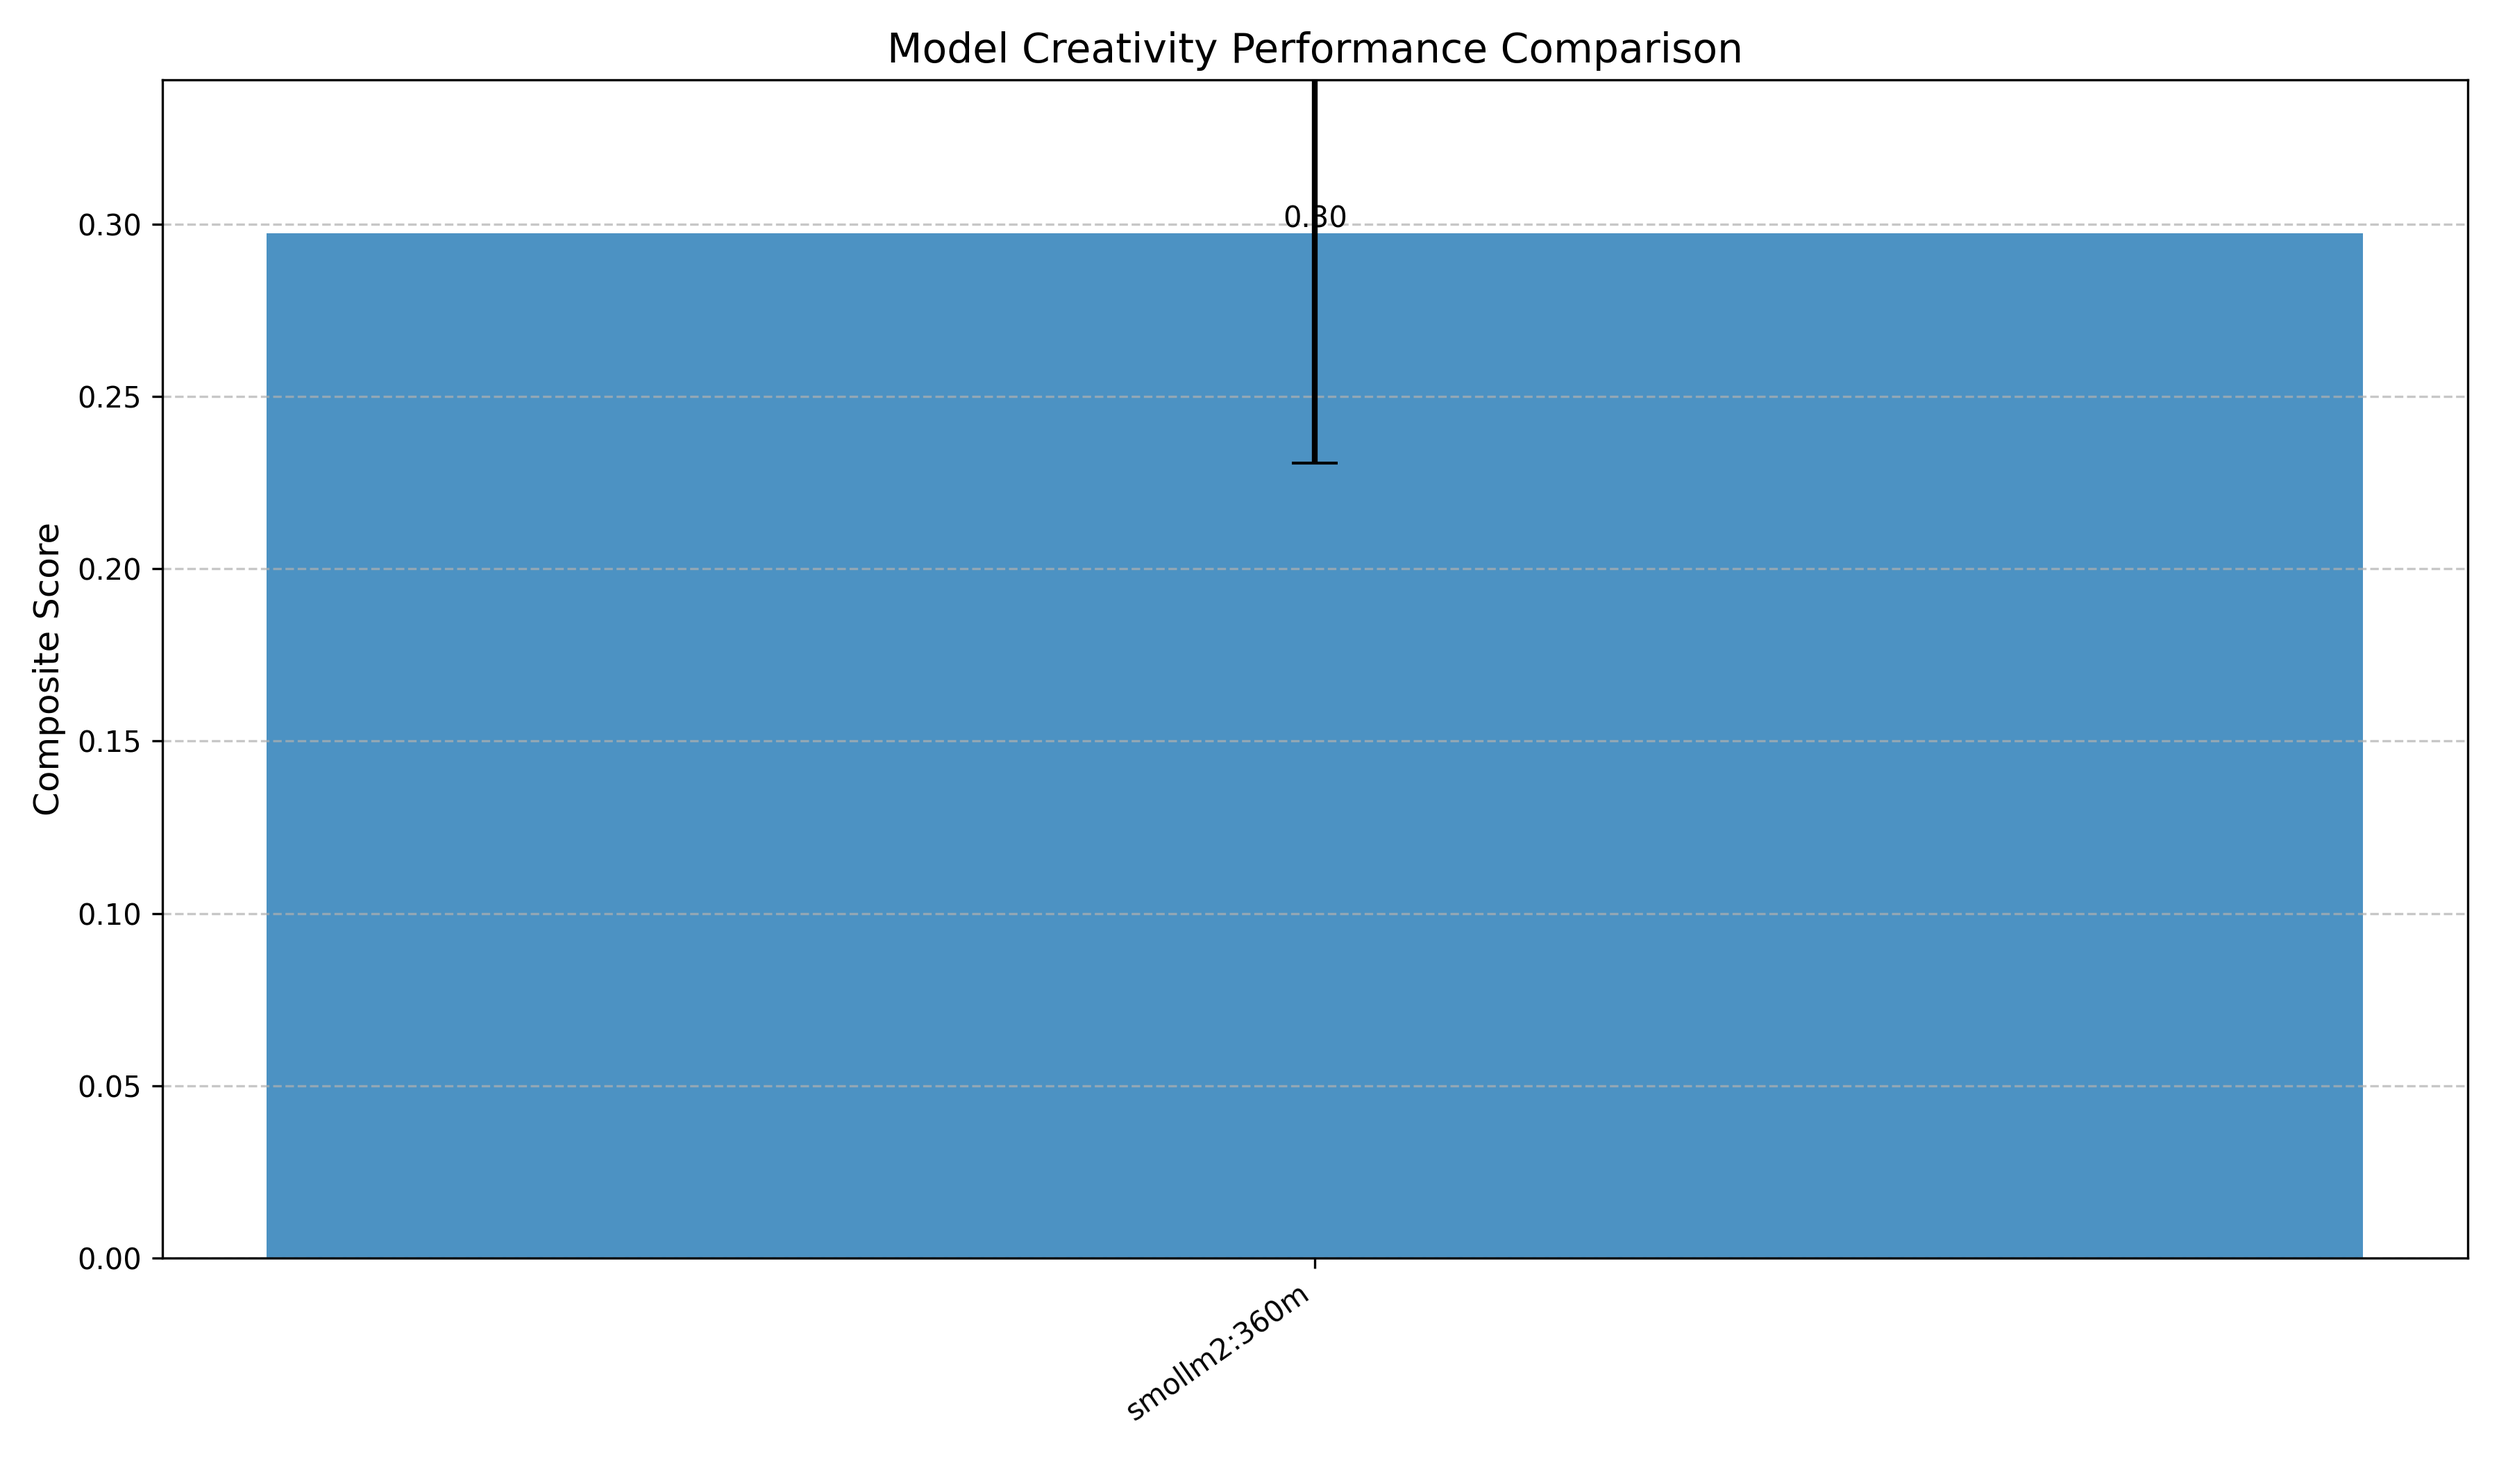
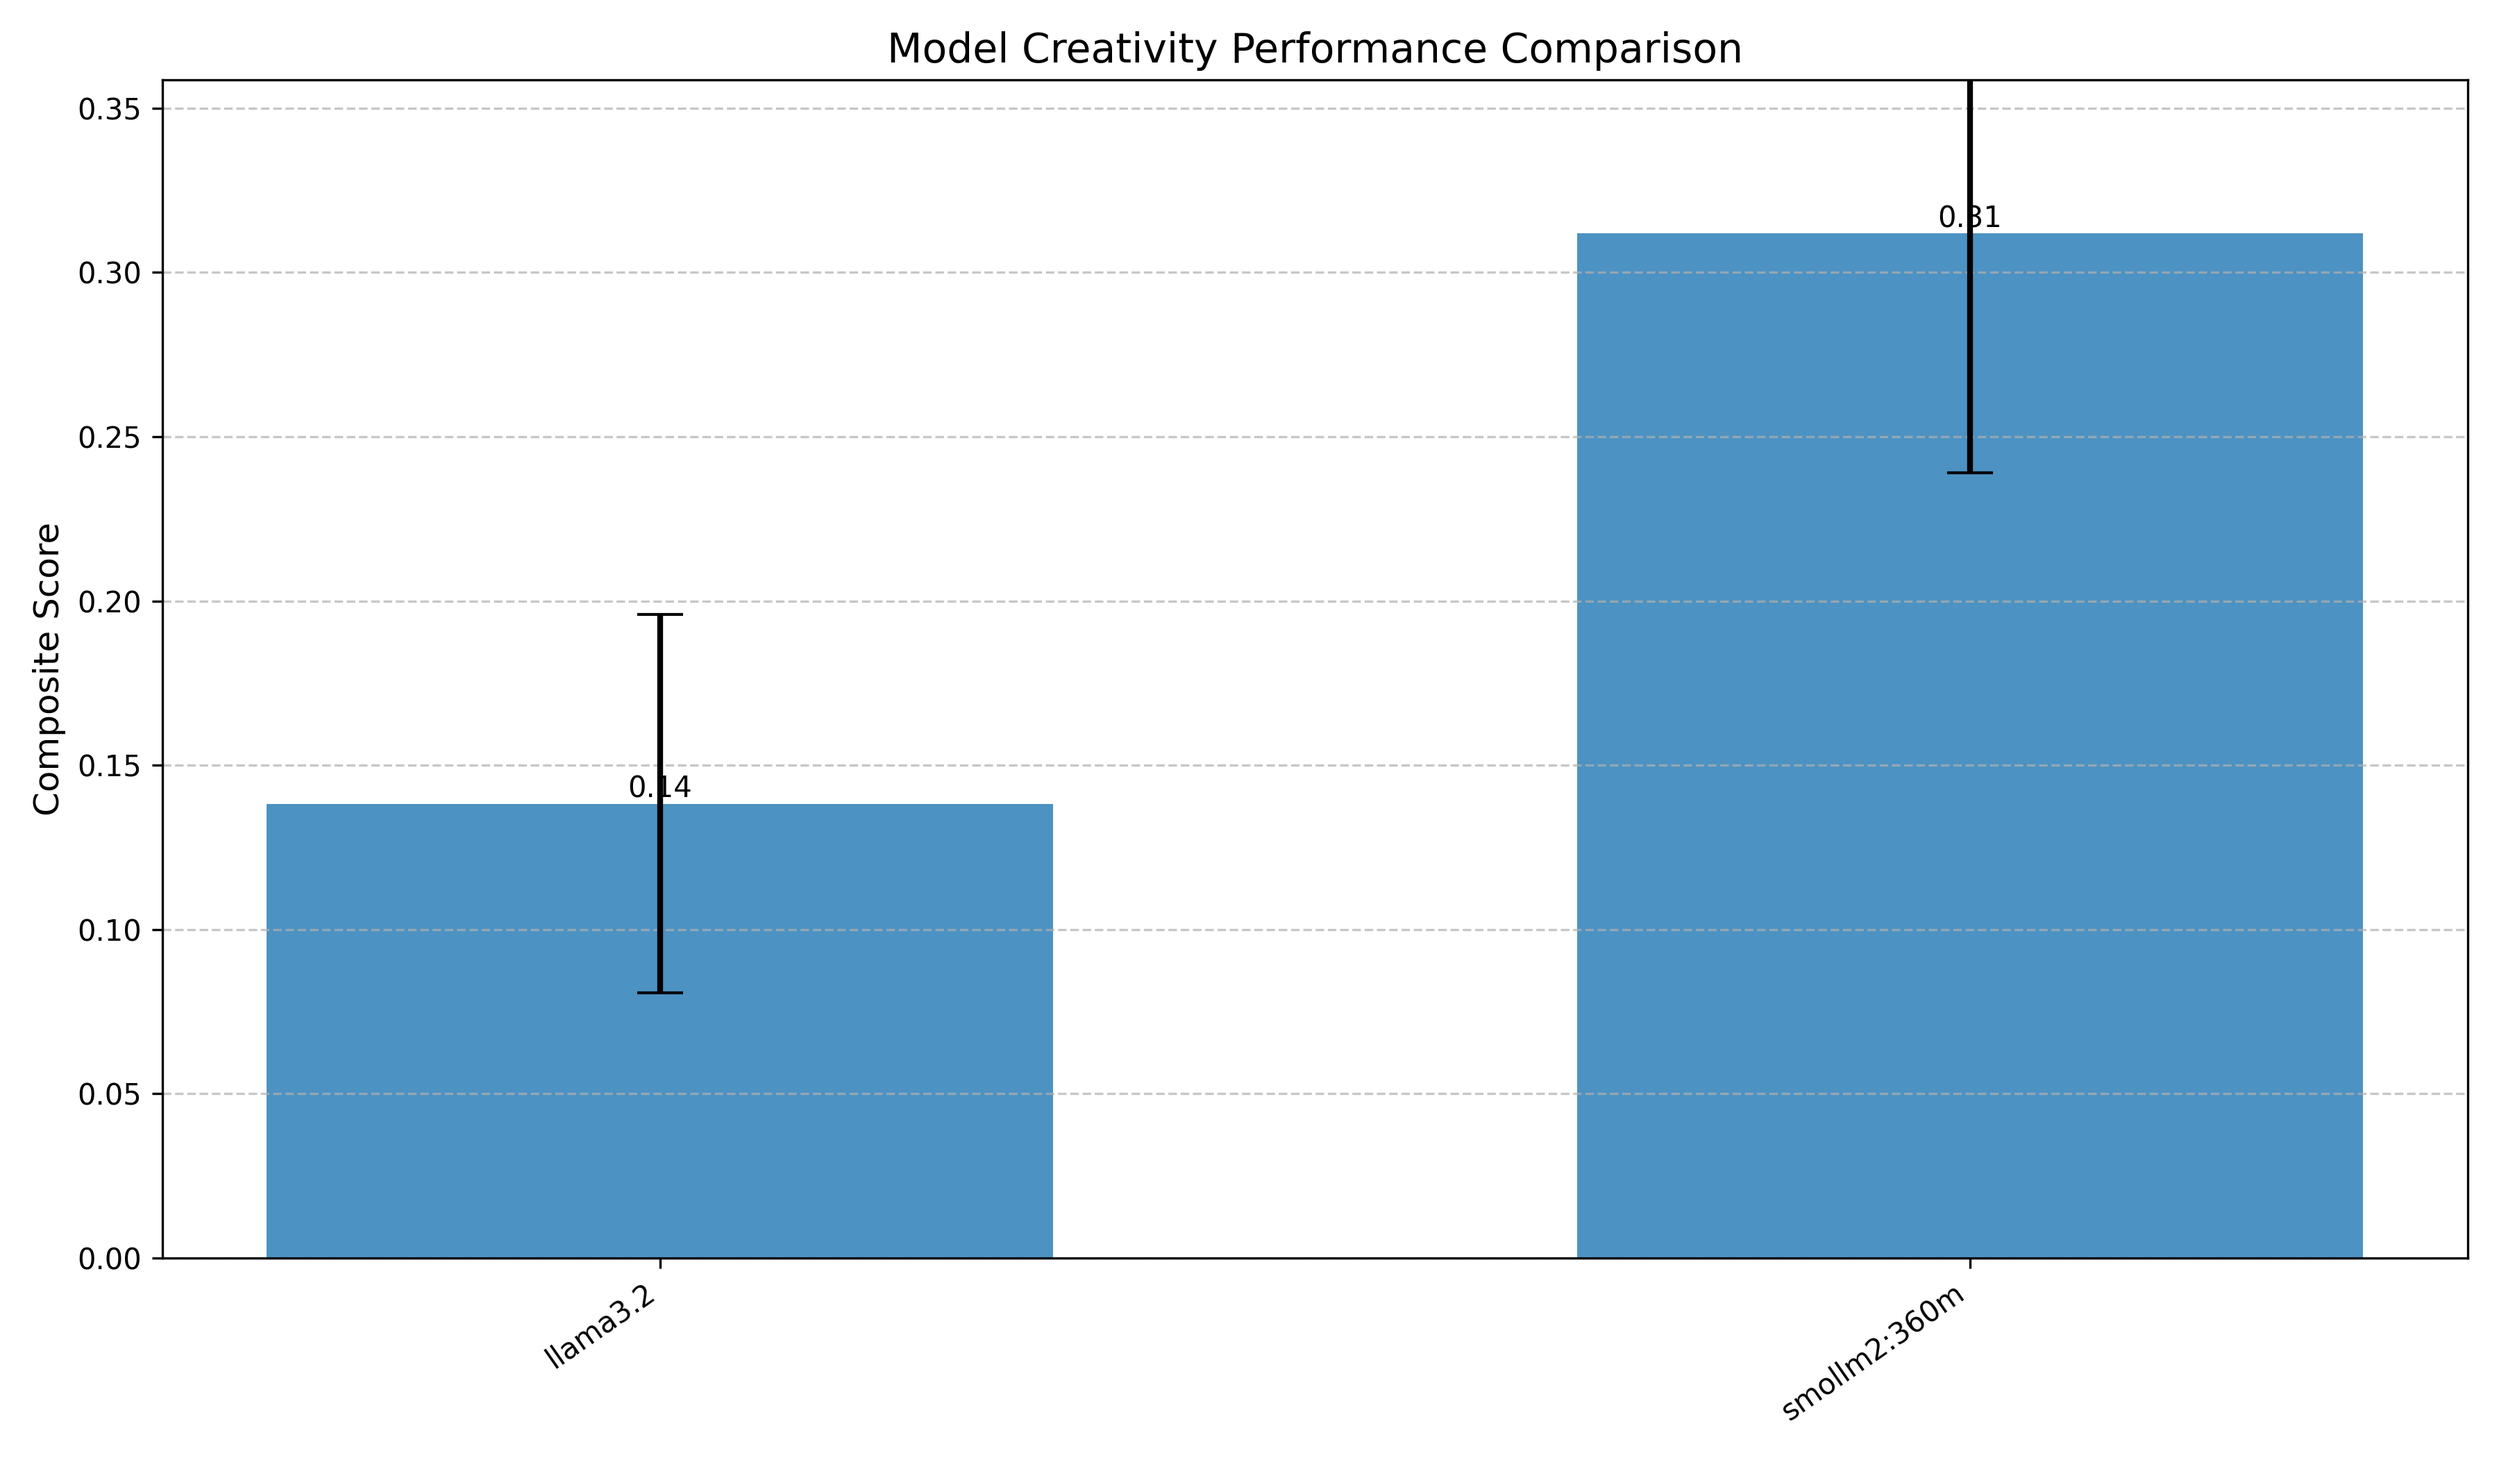
reweight different tests

diff --git a/base.py b/base.py
@@ -4,6 +4,7 @@ import ollama
 import re
 import time
 
+
 class CreativityBenchmarkBase:
     def __init__(self, model_name, use_api):
         self.model = model_name
@@ -14,7 +15,7 @@ class CreativityBenchmarkBase:
         if self.use_api:
             if not self.hf_token:
                 raise ValueError("Hugging Face API token not provided.")
-            
+
             API_URL = f"https://api-inference.huggingface.co/models/{self.model}"
             headers = {"Authorization": f"Bearer {self.hf_token}"}
             payload = {
@@ -24,14 +25,14 @@ class CreativityBenchmarkBase:
                     "max_new_tokens": max_tokens,
                     "return_full_text": False,
                     "wait_for_model": True,
-                    "seed": int(time.time() * 1000) % 1000000
-                }
+                    "seed": int(time.time() * 1000) % 1000000,
+                },
             }
 
             try:
                 response = requests.post(API_URL, headers=headers, json=payload)
                 response.raise_for_status()
-                
+
                 response_json = response.json()
                 if isinstance(response_json, list):
                     text = response_json[0].get("generated_text", "")
@@ -42,21 +43,37 @@ class CreativityBenchmarkBase:
 
             except requests.exceptions.RequestException as e:
                 if response.status_code in [503, 429]:
-                    raise Exception(f"API temporary error ({response.status_code}): {response.text}")
+                    raise Exception(
+                        f"API temporary error ({response.status_code}): {response.text}"
+                    )
                 raise Exception(f"API request failed: {str(e)}")
-                
+
         else:
-            try:
-                response = ollama.generate(
-                    model=self.model,
-                    prompt=prompt,
-                    options={"temperature": temperature, "max_tokens": max_tokens}
+            attempts = 0
+            text = ""
+            while attempts < 5:
+                try:
+                    response = ollama.generate(
+                        model=self.model,
+                        prompt=prompt,
+                        options={"temperature": temperature, "max_tokens": max_tokens},
+                    )
+                    text = response["response"].strip()
+                    if text:
+                        break
+                    else:
+                        attempts += 1
+                except Exception as e:
+                    raise Exception(f"Ollama generation failed: {str(e)}")
+
+            if not text:
+                raise Exception(
+                    "Ollama generation failed: Blank response after 5 attempts"
                 )
-                text = response["response"].strip()
-            except Exception as e:
-                raise Exception(f"Ollama generation failed: {str(e)}")
 
         # Remove all think/antthinking tags and their content using regex
-        text = re.sub(r'^.*<\/\s*think\s*>', '', text, flags=re.DOTALL | re.IGNORECASE).strip()
+        text = re.sub(
+            r"^.*<\/\s*think\s*>", "", text, flags=re.DOTALL | re.IGNORECASE
+        ).strip()
 
         return text

diff --git a/camels_back.py b/camels_back.py
@@ -2,48 +2,50 @@ import random
 from tqdm.auto import tqdm
 from vaderSentiment.vaderSentiment import SentimentIntensityAnalyzer
 
-class CamelBackMixin:
 
+class CamelBackMixin:
     def camels_back(self, seed_text, edit_requests, max_edits=10):
         """Test story coherence under diverse modifications using a generated check and VADER sentiment analysis."""
         print("\n=== Camel's Back Test ===")
         print(f"Starting story: {seed_text}")
-        
+
         story = seed_text
         coherent_edits = 0
         analyzer = SentimentIntensityAnalyzer()
-        
+
         pbar = tqdm(total=max_edits, desc="Camel's Back")
         for i in range(max_edits):
-            print(f"\nEdit Attempt {i+1}:")
-            
+            print(f"\nEdit Attempt {i + 1}:")
+
             num_edits = min(random.randint(1, 3), len(edit_requests))
             current_edits = random.sample(edit_requests, num_edits)
             print("Requested edits:")
             for edit in current_edits:
                 print(f"- {edit}")
-            
-            edit_prompt = f"Modify this story according to these instructions:\n{story}\n\n"
+
+            edit_prompt = (
+                f"Modify this story according to these instructions:\n{story}\n\n"
+            )
             edit_prompt += "\n".join(f"- {edit}" for edit in current_edits)
-            
+
             modified_story = self._generate(edit_prompt, temperature=0.8)
             print(f"\nModified story:\n{modified_story}")
-            
+
             check_prompt = f"""Original story: {story}
                                 Modified story: {modified_story}
                                 Requested edits:
-                                {chr(10).join(f'- {edit}' for edit in current_edits)}
+                                {chr(10).join(f"- {edit}" for edit in current_edits)}
 
                                 Answer these questions with Yes/No and do not respond with anything else:
                                 1. Is the modified story still coherent and logical?
                                 2. Were all the requested edits applied successfully?
                                 3. Is the quality at least as good as the original?"""
-            
+
             check = self._generate(check_prompt, temperature=0.1)
             print(f"\nQuality check results:\n{check}")
 
             vs = analyzer.polarity_scores(check)
-            compound = vs['compound']
+            compound = vs["compound"]
             print(f"Answer: '{check}' | Compound sentiment: {compound}")
 
             if compound > 0.5:
@@ -52,7 +54,7 @@ class CamelBackMixin:
             else:
                 print("→ Quality check failed! Stopping edits.")
                 break
-        
+
         pbar.close()
         print(f"\nSuccessfully made {coherent_edits} coherent edits.")
         return coherent_edits

diff --git a/combined_score.py b/combined_score.py
@@ -1,5 +1,6 @@
 from config import sample_stories, genre_list, edit_requests
 
+
 class CombinedScoreMixin:
     def combined_score(self, seed_text, weights=None):
         print("\n====== Running Creativity Benchmark Suite =====")
@@ -13,9 +14,20 @@ class CombinedScoreMixin:
             "telephone_game": tel_score,
             "camels_back": cb_score,
             "diversity": volume_score,
-            "extreme_style_transfer": extreme_score
+            "extreme_style_transfer": extreme_score,
         }
-        normalized = {k: v / 100 if k == 'free_association' else v / 10 for k, v in scores.items()}
-        weights = weights or {k: 1/len(normalized) for k in normalized}
+        normalized = {
+            k: v / 100 if k == "free_association" else v / 10 for k, v in scores.items()
+        }
+        # weights = weights or {k: 1/len(normalized) for k in normalized}
+
+        weights = {
+            "free_association": 0.25,
+            "telephone_game": 0.25,
+            "camels_back": 0.05,
+            "diversity": 0.25,
+            "extreme_style_transfer": 0.20,
+        }
+
         composite = sum(normalized[k] * weights[k] for k in normalized)
         return {"scores": scores, "normalized": normalized, "composite": composite}

diff --git a/telephone_game.py b/telephone_game.py
@@ -26,6 +26,8 @@ class TelephoneGameMixin:
                 f"Expand this summary into a detailed story:\n{current}",
                 temperature=0.8
             )
+
+            print(rf"Raw expanded {expanded}")
             if not expanded.strip():
                 raise ValueError(f"Empty expanded story in iteration {i+1}")
             print(f"Expanded:\n{expanded}")

diff --git a/cli.py b/cli.py
@@ -18,7 +18,7 @@ def main():
     parser.add_argument(
         "--prompt", 
         type=str,
-        default="A dragon guarded a treasure.",
+        default="A dragon guarded a treasure. Story: ",
         help="Input prompt for the benchmark"
     )
     parser.add_argument(
